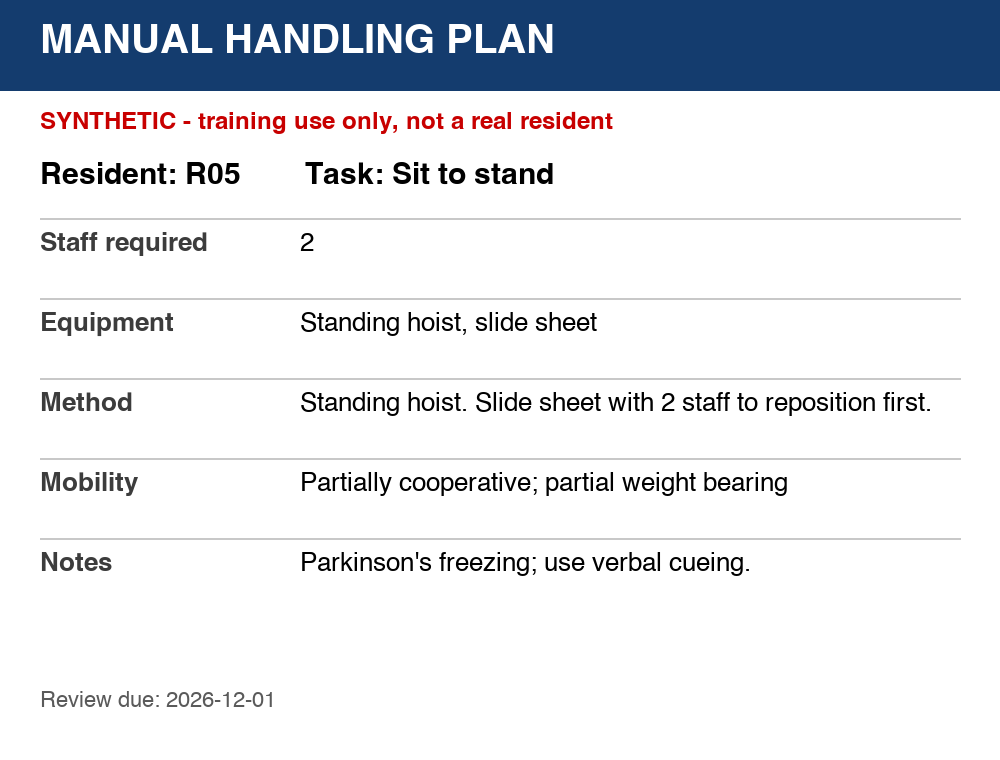
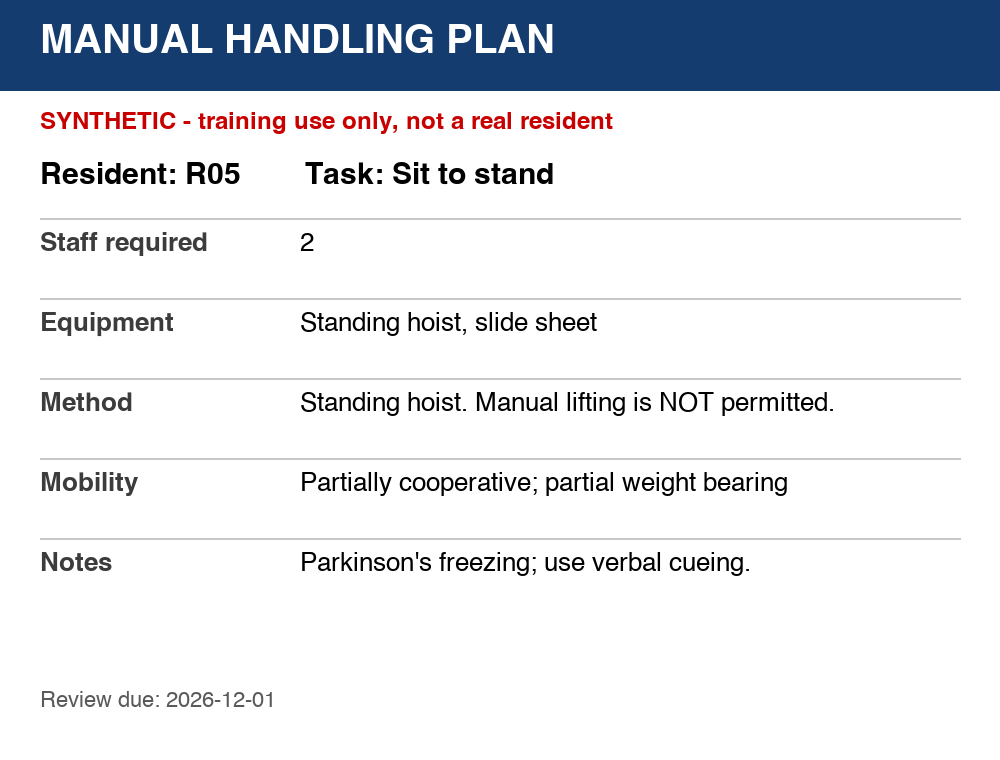
Address review: plan images match testdata, pillow dep, README rows, sturdier test
- R01 note matches its source; R05 states manual lifting is NOT permitted; cache refreshed
- declare pillow for demo/make_plans.py; README lists gate.py and the plan generator
- offline test looks up the demo plan by name instead of sort order

Changed region(s): [[0.465, 0.5145, 0.93, 0.5447]]

diff --git a/demo/make_plans.py b/demo/make_plans.py
@@ -16,12 +16,12 @@ PLANS = {
         ("Equipment", "Ceiling hoist, full body sling"),
         ("Method", "Full body hoist transfer. Manual lifting is NOT permitted."),
         ("Mobility", "Non cooperative; no weight bearing"),
-        ("Notes", "Dense right hemiplegia. Check sling size M before use."),
+        ("Notes", "Dense right hemiplegia; no weight bearing."),
     ]),
     "plan_sit_to_stand": ("R05", "Sit to stand", [
         ("Staff required", "2"),
         ("Equipment", "Standing hoist, slide sheet"),
-        ("Method", "Standing hoist. Slide sheet with 2 staff to reposition first."),
+        ("Method", "Standing hoist. Manual lifting is NOT permitted."),
         ("Mobility", "Partially cooperative; partial weight bearing"),
         ("Notes", "Parkinson's freezing; use verbal cueing."),
     ]),

diff --git a/test_gate.py b/test_gate.py
@@ -35,8 +35,9 @@ def test_demo_plans_read_from_cache_offline(monkeypatch):
     monkeypatch.setattr(gemma, "client", offline)
     monkeypatch.setattr(gemma.time, "sleep", lambda s: None)
     assert len(PLANS) >= 2
+    rules = {}
     for p in PLANS:
-        rules, src = gate.read_plan(p)
+        rules[p.stem], src = gate.read_plan(p)
         assert src == "cache"
-        assert rules["staff_required"] >= 1 and rules["equipment"]
-    assert gate.read_plan(PLANS[0])[0]["staff_required"] == 2  # bed_to_chair: hoist + 2 staff
+        assert rules[p.stem]["staff_required"] >= 1 and rules[p.stem]["equipment"]
+    assert rules["plan_bed_to_chair"]["staff_required"] == 2  # the demo plan: hoist + 2 staff

diff --git a/README.md b/README.md
@@ -25,6 +25,8 @@ mkdir -p models && curl -sSL -o models/pose_landmarker_lite.task \
 | `reba.py` | REBA trunk bands from pose landmarks (amber > 20°, red > 60° or > 20° with twist, held 2 s) |
 | `safelift.py` | Live camera window, alarm and beep, background writer to Snowflake |
 | `gemma.py` | Gemma calls with retry, 20 s timeout and a labelled cache |
+| `gate.py` | Setup gate: `read_plan` turns a SYNTHETIC plan photo into plan rules JSON (`python gate.py` reads every `demo/plan_*.png`) |
+| `demo/make_plans.py` | Renders the SYNTHETIC plan images in `demo/` (macOS font path) |
 | `dashboard/streamlit_app.py` | Trainer dashboard (Streamlit in Snowflake) |
 | `load_guidance.py` | Loads official guidance into Cortex Search |
 
